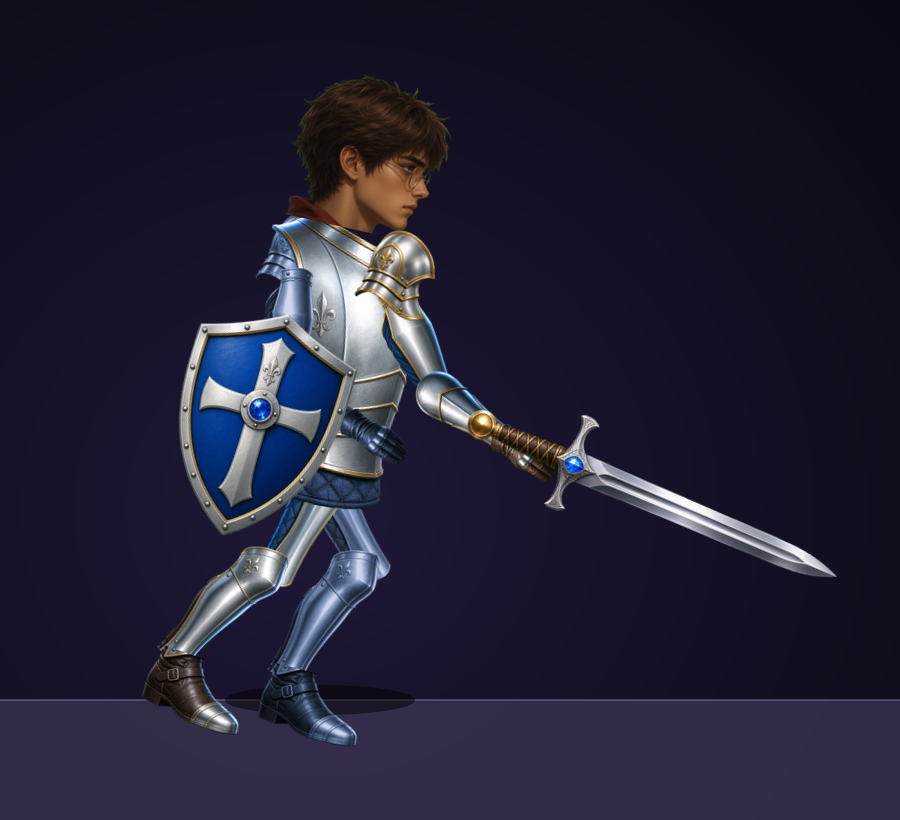
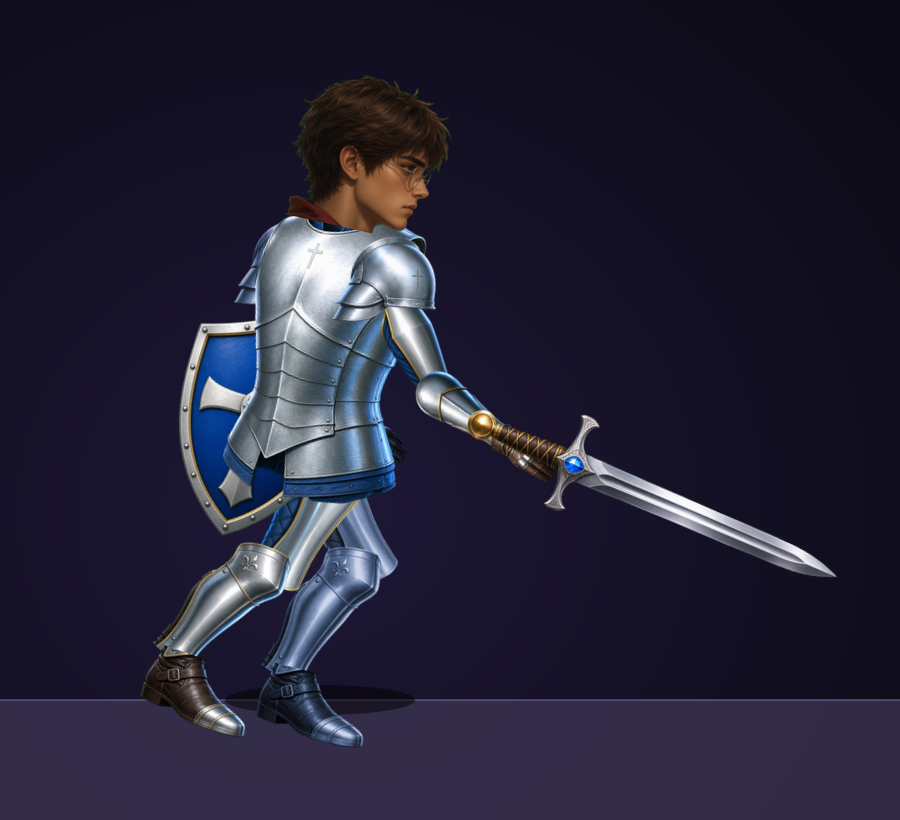
Mejora preview del caballero: anatomia y armadura medieval

Changed region(s): [[0.1556, 0.2439, 0.4978, 0.9146]]

diff --git a/preview/caballero.html b/preview/caballero.html
@@ -86,17 +86,17 @@
   // box = [sx, sy, sw, sh] del contenido dentro del PNG de 1024.
   // ax/ay = punto de anclaje (0..1) que se pega a la articulación.
   const PARTS = {
-    coraza:    { file:"parte-coraza.png",    box:[286,94,449,810],  h:29,   ax:.50, ay:.66, flip:true },
+    coraza:    { file:"parte-coraza-v2.png", box:[272,92,486,833],  h:30,   ax:.50, ay:.68 },
     brazo:     { file:"parte-brazo.png",     box:[320,74,323,873],  h:13.5, ax:.50, ay:.06 },
     antebrazo: { file:"parte-antebrazo.png", box:[379,44,261,937],  h:16.5, ax:.50, ay:.08 },
-    muslo:     { file:"parte-muslo.png",     box:[358,48,324,924],  h:17.5, ax:.50, ay:.05, flip:true },
-    greba:     { file:"parte-greba.png",     box:[358,78,371,640],  h:15.5, ax:.45, ay:.10 },
-    bota:      { file:"parte-greba.png",     box:[358,700,371,225], h:6.5,  ax:.36, ay:.06 },
+    muslo:     { file:"parte-muslo.png",     box:[358,48,324,924],  h:17.5, ax:.50, ay:.05, flip:true, scaleX:1.42 },
+    greba:     { file:"parte-greba.png",     box:[358,78,371,640],  h:15.5, ax:.45, ay:.10, scaleX:1.22 },
+    bota:      { file:"parte-greba.png",     box:[358,700,371,225], h:6.5,  ax:.36, ay:.06, scaleX:1.08 },
     escudo:    { file:"parte-escudo.png",    box:[188,45,646,898],  h:23,   ax:.50, ay:.50 },
     espada:    { file:"parte-espada.png",    box:[19,366,985,246],  w:40,   ax:.18, ay:.50 },
     ala:       { file:"parte-ala.png",       box:[34,100,950,812],  w:46,   ax:.93, ay:.72 },
     cabeza:    { file:"parte-cabeza.png",    box:[0,20,1024,760],   w:22,   ax:.50, ay:.51 },
-    hombrera:  { file:"parte-hombrera.png",  box:null,              w:10,   ax:.50, ay:.62 },
+    hombrera:  { file:"parte-hombrera-v2.png", box:[254,247,513,479], w:10, ax:.56, ay:.54 },
   };
 
   let pending = 0, failed = [];
@@ -120,7 +120,8 @@
     if (!im || !im.complete || !im.naturalWidth) return;
     const box = p.box || [0, 0, im.naturalWidth, im.naturalHeight];
     const [sx, sy, sw, sh] = box;
-    const dw = p.w != null ? p.w : p.h * sw / sh;
+    const naturalW = p.w != null ? p.w : p.h * sw / sh;
+    const dw = naturalW * (p.scaleX || 1);
     const dh = p.h != null ? p.h : p.w * sh / sw;
     const dx = -p.ax * dw, dy = -p.ay * dh;
     ctx.save();
@@ -351,9 +352,9 @@
 
     ctx.save(); ctx.translate(0, torsoY); ctx.rotate(rig.lean);
 
-    // Hombro lejano y su brazo con el escudo.
+    // Brazo del escudo: queda DETRAS del torso. La hombrera y toda la
+    // cadena hombro-codo-mano se dibujan primero; la coraza los solapa.
     ctx.save(); ctx.translate(-4.6, SH_Y); part("hombrera", .34); ctx.restore();
-    part("coraza", 0);
     ctx.save(); ctx.translate(-4.6, SH_Y + .6);
     arm(rig.shB, rig.elB, .3, () => {
       ctx.save();
@@ -365,7 +366,10 @@
     });
     ctx.restore();
 
-    // Cabeza, luego brazo cercano, luego hombrera encima.
+    // Torso por delante del brazo del escudo.
+    part("coraza", 0);
+
+    // Cabeza, luego brazo DE LA ESPADA al frente, y hombrera encima.
     ctx.save();
     ctx.translate(.6, SH_Y - 13); ctx.rotate(rig.head);
     ctx.fillStyle = "#d79c76";                    // cuello vectorial
